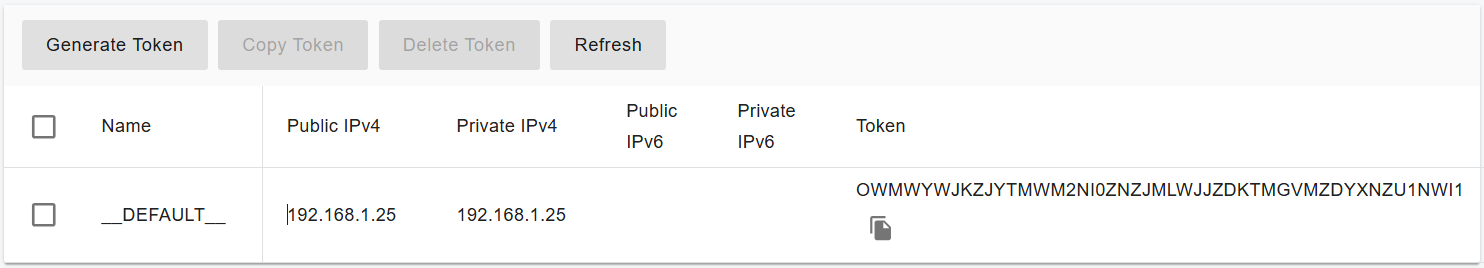
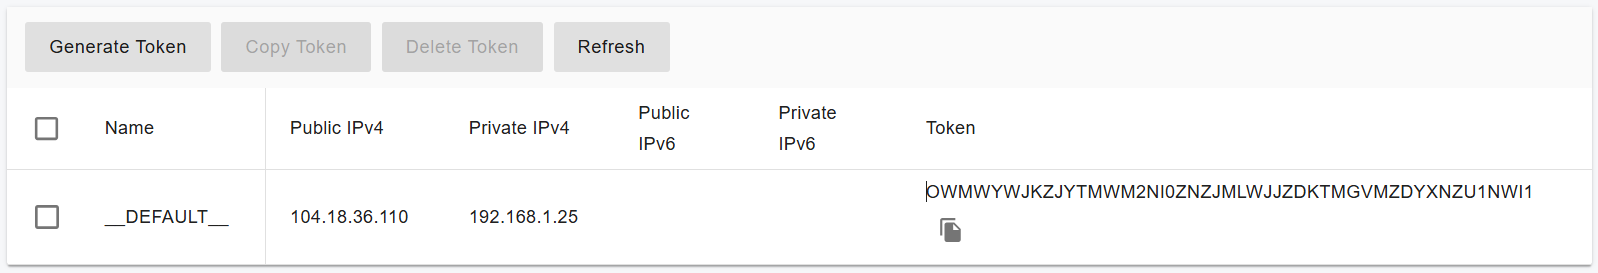
GITBOOK-2479: No subject

diff --git a/portsip-communications-solution/portsip-pbx-administration-guide/1-installation-of-the-portsip-pbx/installation-of-portsip-pbx-v22/install-portsip-im-server-on-linux.md b/portsip-communications-solution/portsip-pbx-administration-guide/1-installation-of-the-portsip-pbx/installation-of-portsip-pbx-v22/install-portsip-im-server-on-linux.md
@@ -77,15 +77,15 @@ It only supports 64-bit OS.
 * Ubuntu 22.04, 24.04
 * Debian 11.x, 12.x
 
-For this setup, we assume the PortSIP PBX is installed on a server, that has the static private IP address **192.168.1.20,** and the static public IP address **104.18.36.119**.
+For this setup, we assume the **PortSIP PBX** is installed on a server, that has the static private IP address **192.168.1.20,** and the static public IP address **104.18.36.119**.
 
-### Step 1: **Preparing the Linux server for Installation**
+### Step 1: **Preparing the Linux server for IM Installation**
 
 Tasks that MUST be completed before installing cluster servers.
 
 * **Ensure the server date-time is synced correctly**.
 * If the Linux server is on a LAN, assign a **static private IP** address, in this case, **192.168.1.25**.
-* Assign/route the static public IP address to this server, in this case, **104.18.36.119.**
+* Assign/route the static public IP address to this server, in this case, **104.18.36.110.**
 * Install all available updates and service packs before installing the cluster server.
 * Do not install PostgreSQL on the server.
 * Ensure that all power-saving options for your system and network adapters are disabled (by setting the system to High-Performance mode).
@@ -191,7 +191,7 @@ Use the following command to create the Instant Messaging (IM) service Docker in
 * **-E**: Specifies that the IM server is installed in extended mode (required).
 * **-p**: Specifies the path for storing IM service data (required).
 * **-a**: Specifies the private IP address of this IM server. If this parameter is omitted, the **-A** parameter must be specified.
-* **-A**: Specifies the public IP address of this IM server. If this parameter is omitted, the **-a** parameter must be specified. If you install the IM server on a **separate server in the cloud, this parameter must be specified**. Otherwise, it can be ignored.
+* **-A**: Specifies the public IP address of this IM server. If this parameter is omitted, the **-a** parameter must be specified. If you install the IM server on a **separate server in the cloud, this parameter must be specified**. Otherwise, it can be ignored. In this case is **104.18.36.110**.
 * **-i**: Specifies the PBX Docker image version (required).
 * **-x**: Indicates the main PBX server's IP address (typically the private IP of the main PBX server) (required).
 * **-t**: Provides the token generated and copied in the previous step (required).
@@ -201,7 +201,7 @@ Use the following command to create the Instant Messaging (IM) service Docker in
 sudo /bin/sh im_ctl.sh run -E \
 -p /var/lib/portsip/ \
 -a 192.168.1.25 \
--A 104.18.36.119 \
+-A 104.18.36.110 \
 -i portsip/pbx:22 \
 -x 192.168.1.20 \
 -t OWMWYWJKZJYTMWM2NI0ZNZJMLWJJZDKTMGVMZDYXNZU1NWI1
@@ -214,7 +214,7 @@ sudo /bin/sh im_ctl.sh run -E \
 -p /var/lib/portsip/ \
 -f /chat/files/ \
 -a 192.168.1.25 \
--A 104.18.36.119 \
+-A 104.18.36.110 \
 -i portsip/pbx:22 \
 -x 192.168.1.20 \
 -t OWMWYWJKZJYTMWM2NI0ZNZJMLWJJZDKTMGVMZDYXNZU1NWI1
